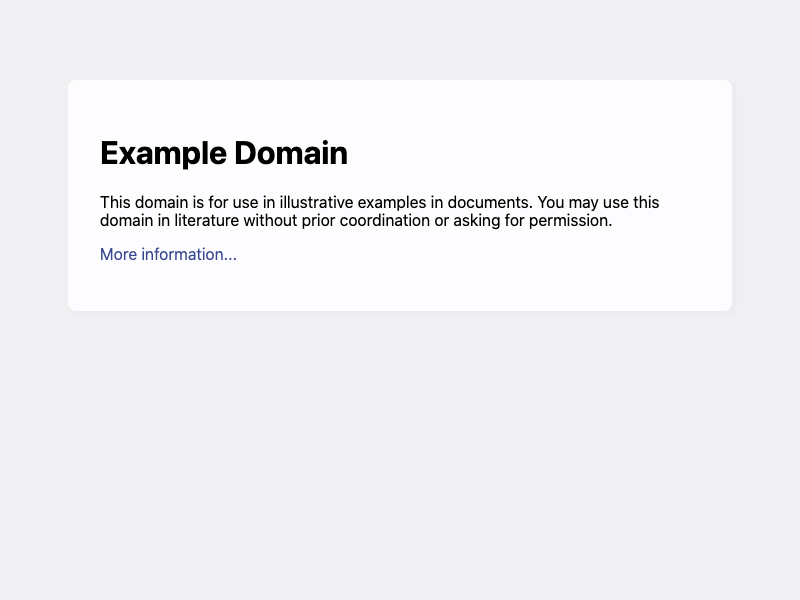
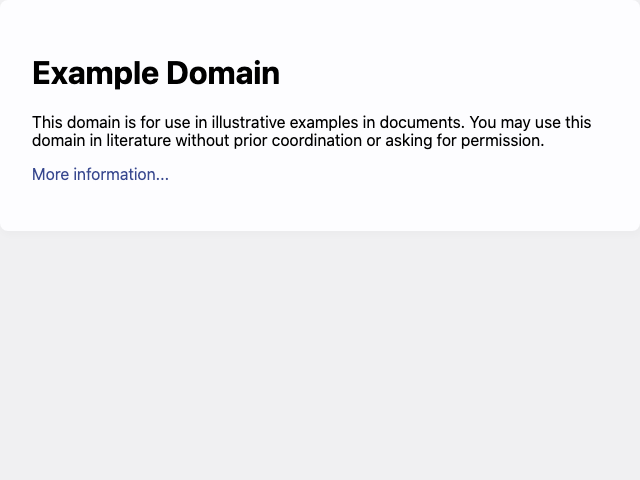
E2E002:Changed viewport size
Made screenshot 640x480.

Changed region(s): [[0.0312, 0.2188, 0.9375, 0.4062], [0.0312, 0.125, 0.4375, 0.1875], [0.125, 0.4062, 0.2812, 0.4375]]

diff --git a/example.js b/example.js
@@ -4,7 +4,11 @@ const puppeteer = require('puppeteer');
   const browser = await puppeteer.launch();
   const page = await browser.newPage();
   await page.goto('https://example.com');
+  await page.setViewport({
+  width: 640,
+  height: 480,
+  deviceScaleFactor: 1,
+});
   await page.screenshot({path: 'example.png'});
-
   await browser.close();
 })();
